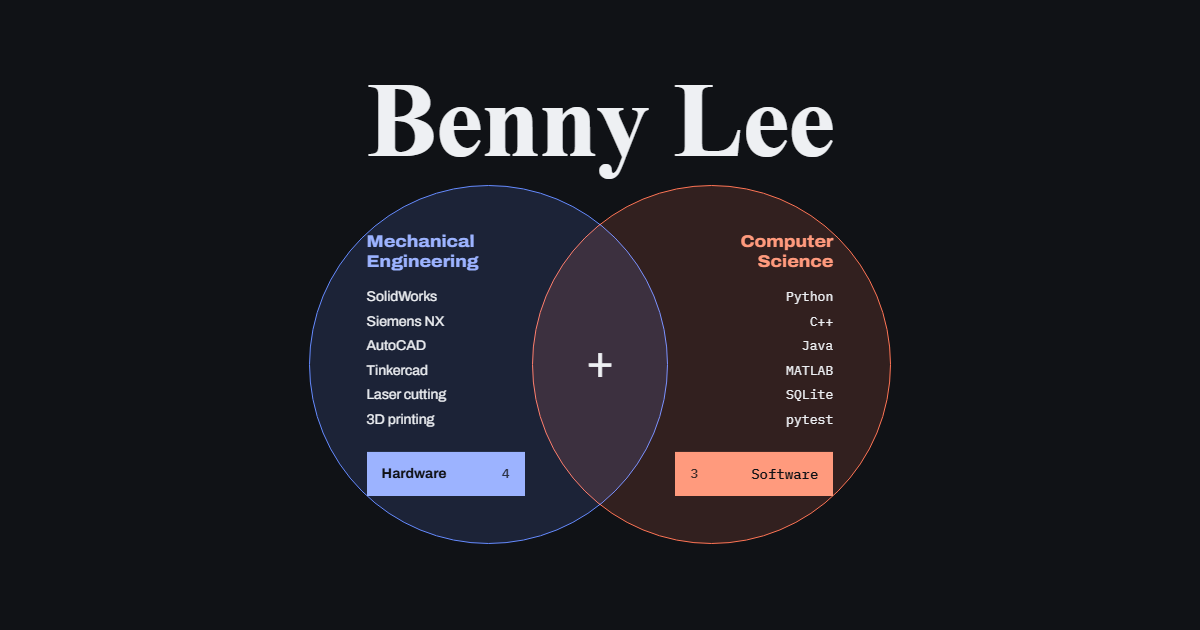
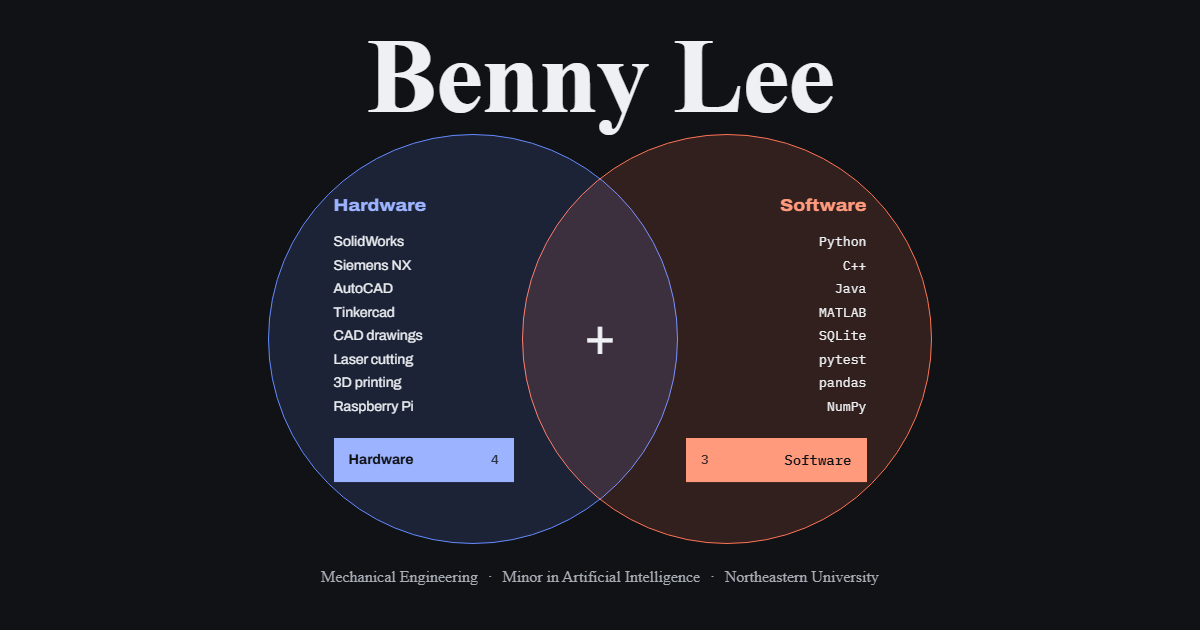
Rename the hero circles to Hardware and Software and show the degree
The Venn circles are now Hardware and Software with 8 skills each, and
the degree line (Mechanical Engineering, Minor in Artificial
Intelligence, Northeastern University) sits under the Venn. The link
preview card is re-shot from the new hero.

diff --git a/css/style.css b/css/style.css
@@ -149,9 +149,9 @@ button { font: inherit; cursor: pointer; }
 @property --d { syntax: '<length>'; inherits: true; initial-value: 300px; }
 
 /* ==========================================================================
-   Hero: a Venn diagram. Mechanical Engineering and Computer Science overlap
-   at the +, which is the point of the site. Each circle holds the skills for
-   its major and the button to its projects.
+   Hero: a Venn diagram. Hardware and Software overlap at the +, which is the
+   point of the site. Each circle holds those skills and the button to its
+   projects. The degree line (major and minor) sits under the Venn.
    ========================================================================== */
 .hero {
   position: relative; isolation: isolate; container-type: inline-size;
@@ -179,12 +179,12 @@ button { font: inherit; cursor: pointer; }
 .venn .blk.me { left: calc(var(--d) * 0.16); }
 .venn .blk.cs { right: calc(var(--d) * 0.16); text-align: right; }   /* mirror image of the mechanical side */
 .venn .blk h2 {
-  margin: 0 0 14px; height: 2.3em; font-size: clamp(1.0625rem, calc(var(--d) * 0.042), 1.625rem); line-height: 1.15;
+  margin: 0 0 14px; height: 1.15em; font-size: clamp(1.0625rem, calc(var(--d) * 0.042), 1.625rem); line-height: 1.15;
   font-weight: 800; font-stretch: 110%;
 }
 .venn .blk.me h2 { color: var(--me-ink); }
 .venn .blk.cs h2 { color: var(--cs-ink); }
-.venn .blk ul { font-size: var(--fs); line-height: calc(var(--fs) * 1.75); color: var(--hw-ink); }
+.venn .blk ul { font-size: var(--fs); line-height: calc(var(--fs) * 1.68); color: var(--hw-ink); }
 .venn .blk.cs ul { font-family: var(--mono); font-size: calc(var(--fs) * 0.94); }
 .venn .plus {
   position: absolute; left: 50%; top: 50%; transform: translate(-50%, -54%);
@@ -201,8 +201,17 @@ button { font: inherit; cursor: pointer; }
 .venn .blk.cs .btn { background: var(--cs-ink); border-color: var(--cs-ink); flex-direction: row-reverse; }
 .venn .btn:hover { filter: brightness(1.15); }
 @container (max-width: 215px) { .venn .btn .long { display: none; } }
+.hero .degree {
+  margin: 0; font-family: var(--font); color: var(--hw-muted); text-align: center;
+  font-size: clamp(1rem, min(1.35cqi, 2.2svh), 1.25rem); line-height: 1.35;
+}
+.hero .degree .dot { padding: 0 .6em; }
+/* short laptop screens: slightly smaller circles leave room for the degree line */
+@media (min-width: 761px) and (max-height: 800px) {
+  .venn { --d: clamp(300px, min(calc(100cqi / 1.62 * 0.92), 53svh), 600px); }
+}
 
-/* Phones: the circles stack, mechanical on top, and the skills go two-up */
+/* Phones: the circles stack, hardware on top, the skills go two-up, and the degree line takes three lines */
 @media (max-width: 760px) {
   .hero { min-height: 0; padding-top: calc(var(--nav-h) + 36px); }
   .hero h1 { font-size: calc((100cqi - 2 * var(--gutter)) / 5); }
@@ -218,6 +227,9 @@ button { font: inherit; cursor: pointer; }
   .venn .blk h2 br { display: none; }
   .venn .blk ul { columns: 2; column-gap: 16px; --fs: 0.875rem; }
   .venn .plus { font-size: 44px; }
+  .hero .degree { font-size: 1.0625rem; }
+  .hero .degree span { display: block; }
+  .hero .degree .dot { display: none; }
 }
 
 /* ==========================================================================

diff --git a/index.html b/index.html
@@ -14,7 +14,7 @@
   <meta property="og:image" content="https://bennylee.me/assets/og-card.png">
   <meta property="og:image:width" content="1200">
   <meta property="og:image:height" content="630">
-  <meta property="og:image:alt" content="Benny Lee, above two overlapping circles: Mechanical Engineering in blue and Computer Science in coral, each listing skills">
+  <meta property="og:image:alt" content="Benny Lee, above two overlapping circles, Hardware in blue and Software in coral, each listing skills, with the line Mechanical Engineering, Minor in Artificial Intelligence, Northeastern University">
   <meta name="twitter:card" content="summary_large_image">
 
   <link rel="icon" href="favicon.svg" type="image/svg+xml">
@@ -47,26 +47,26 @@
   </header>
 
   <main id="main">
-    <!-- ===== Hero: a Venn diagram. Mechanical Engineering (blue) and Computer Science (coral)
-         overlap at the +. Each circle lists that major's skills and links to its projects. -->
+    <!-- ===== Hero: a Venn diagram. Hardware (blue) and Software (coral) overlap at the +.
+         Each circle lists those skills and links to its projects. The degree line sits under the Venn. -->
     <section class="hero" id="top" aria-labelledby="hero-name">
       <h1 id="hero-name">Benny Lee</h1>
-      <p class="sr-only">Mechanical Engineering with a minor in Artificial Intelligence, Northeastern University</p>
       <div class="venn">
         <span class="c me" aria-hidden="true"></span>
         <span class="c cs" aria-hidden="true"></span>
         <div class="blk me">
-          <h2>Mechanical <br>Engineering</h2>
-          <ul aria-label="Mechanical engineering skills"><li>SolidWorks</li><li>Siemens NX</li><li>AutoCAD</li><li>Tinkercad</li><li>Laser cutting</li><li>3D printing</li></ul>
+          <h2>Hardware</h2>
+          <ul aria-label="Hardware skills"><li>SolidWorks</li><li>Siemens NX</li><li>AutoCAD</li><li>Tinkercad</li><li>CAD drawings</li><li>Laser cutting</li><li>3D printing</li><li>Raspberry Pi</li></ul>
           <a class="btn me" href="#hardware"><b>Hardware<span class="long"> projects</span></b><span class="n">4</span></a>
         </div>
         <span class="plus" aria-hidden="true">+</span>
         <div class="blk cs">
-          <h2>Computer <br>Science</h2>
-          <ul aria-label="Computer science skills"><li>Python</li><li>C++</li><li>Java</li><li>MATLAB</li><li>SQLite</li><li>pytest</li></ul>
+          <h2>Software</h2>
+          <ul aria-label="Software skills"><li>Python</li><li>C++</li><li>Java</li><li>MATLAB</li><li>SQLite</li><li>pytest</li><li>pandas</li><li>NumPy</li></ul>
           <a class="btn cs" href="#software"><b>Software<span class="long"> projects</span></b><span class="n">3</span></a>
         </div>
       </div>
+      <p class="degree"><span>Mechanical Engineering</span><span class="dot" aria-hidden="true">&middot;</span><span>Minor in Artificial Intelligence</span><span class="dot" aria-hidden="true">&middot;</span><span>Northeastern University</span></p>
     </section>
 
     <!-- ===== Work ===== -->

diff --git a/projects/budget-box.html b/projects/budget-box.html
@@ -12,7 +12,7 @@
   <meta property="og:image" content="https://bennylee.me/assets/og-card.png">
   <meta property="og:image:width" content="1200">
   <meta property="og:image:height" content="630">
-  <meta property="og:image:alt" content="Benny Lee, above two overlapping circles: Mechanical Engineering in blue and Computer Science in coral, each listing skills">
+  <meta property="og:image:alt" content="Benny Lee, above two overlapping circles, Hardware in blue and Software in coral, each listing skills, with the line Mechanical Engineering, Minor in Artificial Intelligence, Northeastern University">
   <meta name="twitter:card" content="summary_large_image">
   <meta name="theme-color" content="#101216">
   <link rel="icon" href="../favicon.svg" type="image/svg+xml">

diff --git a/projects/enable-hand.html b/projects/enable-hand.html
@@ -12,7 +12,7 @@
   <meta property="og:image" content="https://bennylee.me/assets/og-card.png">
   <meta property="og:image:width" content="1200">
   <meta property="og:image:height" content="630">
-  <meta property="og:image:alt" content="Benny Lee, above two overlapping circles: Mechanical Engineering in blue and Computer Science in coral, each listing skills">
+  <meta property="og:image:alt" content="Benny Lee, above two overlapping circles, Hardware in blue and Software in coral, each listing skills, with the line Mechanical Engineering, Minor in Artificial Intelligence, Northeastern University">
   <meta name="twitter:card" content="summary_large_image">
   <meta name="theme-color" content="#101216">
   <link rel="icon" href="../favicon.svg" type="image/svg+xml">

diff --git a/projects/gtap-trade-stress.html b/projects/gtap-trade-stress.html
@@ -12,7 +12,7 @@
   <meta property="og:image" content="https://bennylee.me/assets/og-card.png">
   <meta property="og:image:width" content="1200">
   <meta property="og:image:height" content="630">
-  <meta property="og:image:alt" content="Benny Lee, above two overlapping circles: Mechanical Engineering in blue and Computer Science in coral, each listing skills">
+  <meta property="og:image:alt" content="Benny Lee, above two overlapping circles, Hardware in blue and Software in coral, each listing skills, with the line Mechanical Engineering, Minor in Artificial Intelligence, Northeastern University">
   <meta name="twitter:card" content="summary_large_image">
   <meta name="theme-color" content="#101216">
   <link rel="icon" href="../favicon.svg" type="image/svg+xml">

diff --git a/projects/matlab-economics.html b/projects/matlab-economics.html
@@ -12,7 +12,7 @@
   <meta property="og:image" content="https://bennylee.me/assets/og-card.png">
   <meta property="og:image:width" content="1200">
   <meta property="og:image:height" content="630">
-  <meta property="og:image:alt" content="Benny Lee, above two overlapping circles: Mechanical Engineering in blue and Computer Science in coral, each listing skills">
+  <meta property="og:image:alt" content="Benny Lee, above two overlapping circles, Hardware in blue and Software in coral, each listing skills, with the line Mechanical Engineering, Minor in Artificial Intelligence, Northeastern University">
   <meta name="twitter:card" content="summary_large_image">
   <meta name="theme-color" content="#101216">
   <link rel="icon" href="../favicon.svg" type="image/svg+xml">

diff --git a/projects/nasa-lspace.html b/projects/nasa-lspace.html
@@ -12,7 +12,7 @@
   <meta property="og:image" content="https://bennylee.me/assets/og-card.png">
   <meta property="og:image:width" content="1200">
   <meta property="og:image:height" content="630">
-  <meta property="og:image:alt" content="Benny Lee, above two overlapping circles: Mechanical Engineering in blue and Computer Science in coral, each listing skills">
+  <meta property="og:image:alt" content="Benny Lee, above two overlapping circles, Hardware in blue and Software in coral, each listing skills, with the line Mechanical Engineering, Minor in Artificial Intelligence, Northeastern University">
   <meta name="twitter:card" content="summary_large_image">
   <meta name="theme-color" content="#101216">
   <link rel="icon" href="../favicon.svg" type="image/svg+xml">

diff --git a/projects/optimized-learning.html b/projects/optimized-learning.html
@@ -12,7 +12,7 @@
   <meta property="og:image" content="https://bennylee.me/assets/og-card.png">
   <meta property="og:image:width" content="1200">
   <meta property="og:image:height" content="630">
-  <meta property="og:image:alt" content="Benny Lee, above two overlapping circles: Mechanical Engineering in blue and Computer Science in coral, each listing skills">
+  <meta property="og:image:alt" content="Benny Lee, above two overlapping circles, Hardware in blue and Software in coral, each listing skills, with the line Mechanical Engineering, Minor in Artificial Intelligence, Northeastern University">
   <meta name="twitter:card" content="summary_large_image">
   <meta name="theme-color" content="#101216">
   <link rel="icon" href="../favicon.svg" type="image/svg+xml">

diff --git a/projects/reaction-game.html b/projects/reaction-game.html
@@ -12,7 +12,7 @@
   <meta property="og:image" content="https://bennylee.me/assets/og-card.png">
   <meta property="og:image:width" content="1200">
   <meta property="og:image:height" content="630">
-  <meta property="og:image:alt" content="Benny Lee, above two overlapping circles: Mechanical Engineering in blue and Computer Science in coral, each listing skills">
+  <meta property="og:image:alt" content="Benny Lee, above two overlapping circles, Hardware in blue and Software in coral, each listing skills, with the line Mechanical Engineering, Minor in Artificial Intelligence, Northeastern University">
   <meta name="twitter:card" content="summary_large_image">
   <meta name="theme-color" content="#101216">
   <link rel="icon" href="../favicon.svg" type="image/svg+xml">

diff --git a/projects/sam-pipeline.html b/projects/sam-pipeline.html
@@ -12,7 +12,7 @@
   <meta property="og:image" content="https://bennylee.me/assets/og-card.png">
   <meta property="og:image:width" content="1200">
   <meta property="og:image:height" content="630">
-  <meta property="og:image:alt" content="Benny Lee, above two overlapping circles: Mechanical Engineering in blue and Computer Science in coral, each listing skills">
+  <meta property="og:image:alt" content="Benny Lee, above two overlapping circles, Hardware in blue and Software in coral, each listing skills, with the line Mechanical Engineering, Minor in Artificial Intelligence, Northeastern University">
   <meta name="twitter:card" content="summary_large_image">
   <meta name="theme-color" content="#101216">
   <link rel="icon" href="../favicon.svg" type="image/svg+xml">

diff --git a/projects/space-chess.html b/projects/space-chess.html
@@ -12,7 +12,7 @@
   <meta property="og:image" content="https://bennylee.me/assets/og-card.png">
   <meta property="og:image:width" content="1200">
   <meta property="og:image:height" content="630">
-  <meta property="og:image:alt" content="Benny Lee, above two overlapping circles: Mechanical Engineering in blue and Computer Science in coral, each listing skills">
+  <meta property="og:image:alt" content="Benny Lee, above two overlapping circles, Hardware in blue and Software in coral, each listing skills, with the line Mechanical Engineering, Minor in Artificial Intelligence, Northeastern University">
   <meta name="twitter:card" content="summary_large_image">
   <meta name="theme-color" content="#101216">
   <link rel="icon" href="../favicon.svg" type="image/svg+xml">
